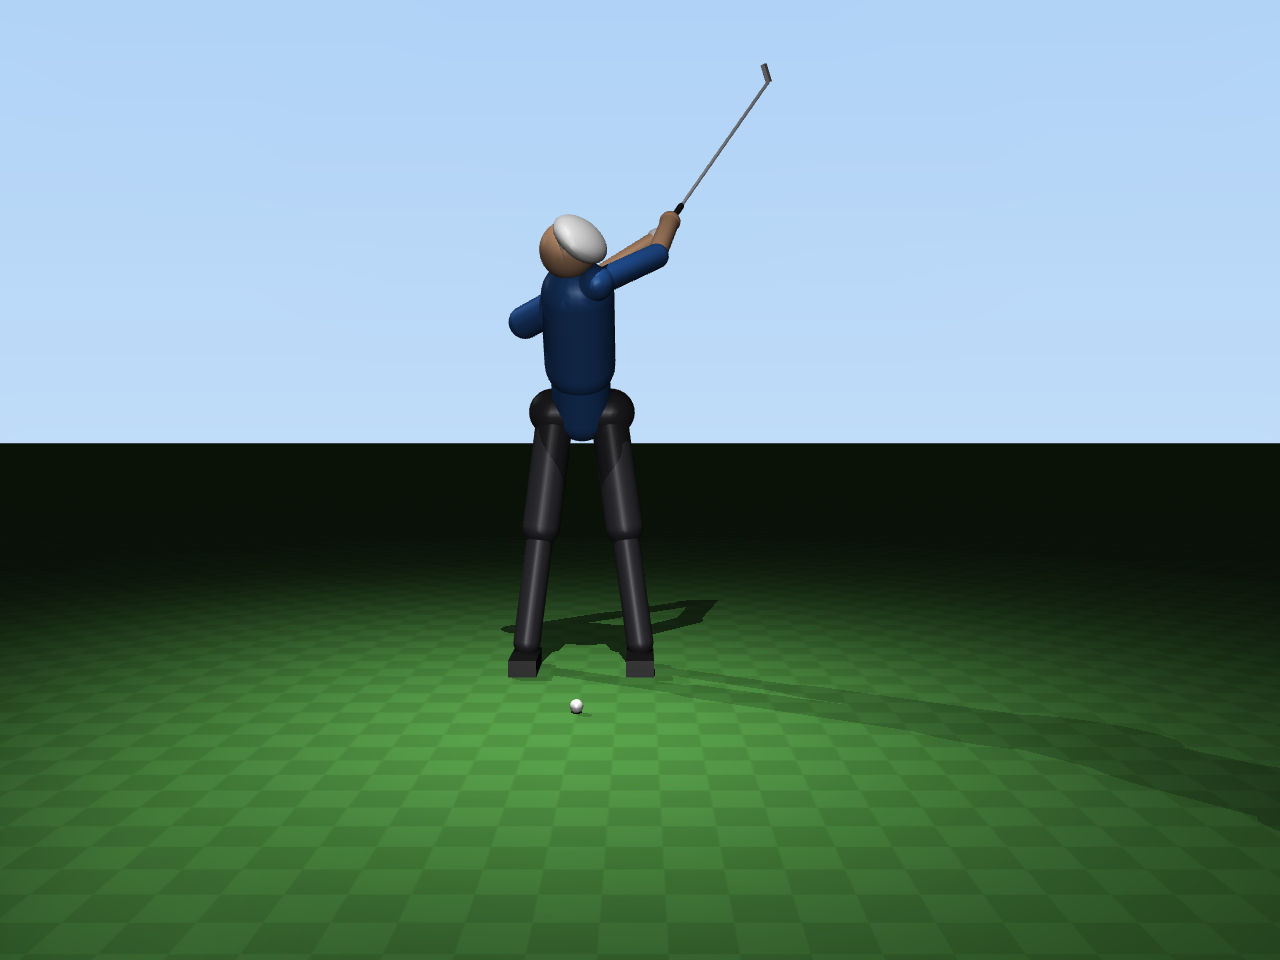
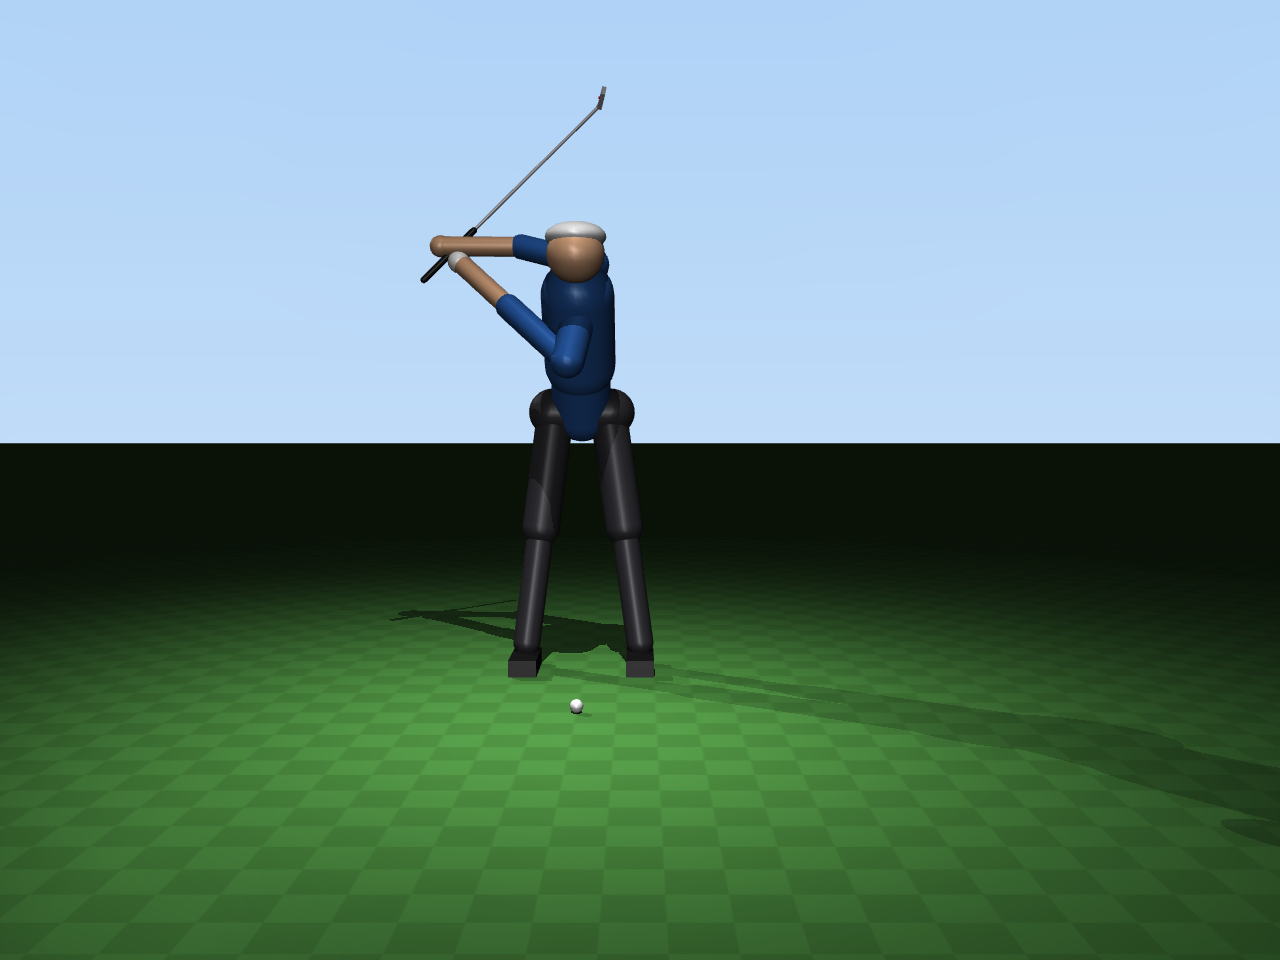
Lab1: passa a pendulo duplo (braco + pulso), o modelo canonico do swing
Os 2 dof anteriores (tronco + bracos) tinham correlacao 0.905 na matriz de massa
-- eixos a 34.7 graus um do outro, ambos a rodar o taco sempre esticado. Eram
quase o mesmo movimento, e nenhum fazia a coisa que gera velocidade: mudar o
raio. Dai o tecto de 25.7 m/s.

Passa ao modelo de Cochran & Stobbs: tronco RIGIDO, e os 2 dof sao o braco (no
centro do peito) e o PULSO. O taco sai do corpo dos bracos e passa a corpo
proprio com junta no punho. A pose de enderecio fica identica.
  correlacao dos dof  0.905 -> 0.566
  v cabeca            25.7  -> 29.4 m/s
  smash               1.29  -> 1.25 (real 1.25-1.33)
  carry               102   -> 156 m
  downswing           0.38  -> 0.30 s (duracao real de um swing)

O pulso tem libertacao tardia (lag): fica armado ate 30 % do downswing e so
depois solta. Com o taco dobrado a inercia e baixa e o braco acelera barato; a
energia vai para a cabeca no fim, com a alavanca ja longa.

Binarios: braco +-150 N.m (representa toda a cadeia, nao so o deltoide), pulso
+-40 N.m (a libertacao real e em boa parte passiva, por forca centrifuga).

Corrige tambem a deteccao de impacto: so conta contacto a menos de 0.2 s do
instante previsto. Um swing que falhava a bola acabava por encostar-lhe no
follow-through e era contado como acerto a ~0 m/s.

diff --git a/Lab1/src/swing.py b/Lab1/src/swing.py
@@ -55,19 +55,19 @@ MODEL = "models/golfer_v13.xml"
 # saíram do varrimento de viabilidade — ver report/simplificacoes.md.
 # ----------------------------------------------------------------------------
 DEFAULTS = dict(
-    q_top_torso=-97.0,      # rotação de ombros no topo do backswing [deg]
-    q_top_shoulder=-125.0,  # ângulo braços+taco no topo [deg]
+    q_top_shoulder=-125.0,  # ângulo dos braços no topo do backswing [deg]
+    q_top_wrist=-95.0,      # armação do pulso no topo [deg] (real: ~90)
+    f_release=0.30,         # fração do downswing em que o pulso começa a soltar
     t_back=0.75,            # duração do backswing [s]
     t_pause=0.05,           # pausa no topo [s]
-    t_down=0.38,            # topo -> impacto [s]
+    t_down=0.30,            # topo -> impacto [s]  (real: 0.25-0.30 s)
     t_sim=6.0,              # duração total simulada [s] (até a bola parar)
     kp=900.0,               # ganhos do PD (rad/s^2 por rad, e por rad/s)
     kd=60.0,
 )
-# Nota: t_down = 0.38 s é mais lento que o downswing real (0.25-0.30 s). Não é
-# escolha estética: com os binários declarados no XML (±150/±100 N·m) um
-# downswing mais rápido satura o motor do ombro, a trajetória deixa de ser
-# seguida e o taco passa ao lado da bola. Ver report/simplificacoes.md.
+# Com o modelo de pêndulo duplo (braço + pulso) o downswing já cabe nos 0.30 s
+# de um swing real sem saturar os motores. No modelo anterior (tronco + braços,
+# dof 90 % redundantes) era preciso 0.38-0.46 s. Ver report/simplificacoes.md.
 
 
 # ----------------------------------------------------------------------------
@@ -95,7 +95,7 @@ def reference(t, p):
 
     Devolve (q_ref, v_ref, a_ref), cada um com 2 elementos [torso, shoulder].
     """
-    q_top = np.radians([p["q_top_torso"], p["q_top_shoulder"]])
+    q_top = np.radians([p["q_top_shoulder"], p["q_top_wrist"]])
     t_back, t_pause, t_down = p["t_back"], p["t_pause"], p["t_down"]
     t_start_down = t_back + t_pause
 
@@ -122,10 +122,29 @@ def reference(t, p):
     # ao peito. Com 1.35 a pose final fica ~0.82*|q_topo| depois do impacto, que
     # é a ordem de grandeza de um "finish" real.
     u = t - t_start_down
+
+    # --- braço (dof 1): parábola desde o topo, cruza zero em u = t_down
     tau = min(u / t_down, 1.35)                      # 1.35 = fim do follow-through
     q = q_top * (1.0 - tau**2)
     v = -q_top * 2.0 * tau / t_down
     a = -q_top * 2.0 * np.ones(2) / t_down**2
+
+    # --- pulso (dof 2): LIBERTAÇÃO TARDIA ("lag").
+    # O pulso fica armado durante a primeira parte do downswing e só começa a
+    # soltar em f_release*t_down; depois solta com aceleração constante e chega
+    # também a zero em u = t_down. Isto é o "lag" de que falam os treinadores, e
+    # é o que distingue um swing eficiente de um "casting" (soltar cedo): com o
+    # taco dobrado a inércia é baixa, logo o braço acelera barato, e a energia
+    # é entregue à cabeça do taco no fim, quando o braço de alavanca é longo.
+    t_rel = p.get("f_release", 0.55) * t_down
+    if u < t_rel:
+        q[1], v[1], a[1] = q_top[1], 0.0, 0.0
+    else:
+        Tw = t_down - t_rel
+        tw = min((u - t_rel) / Tw, 1.35)
+        q[1] = q_top[1] * (1.0 - tw**2)
+        v[1] = -q_top[1] * 2.0 * tw / Tw
+        a[1] = -q_top[1] * 2.0 / Tw**2
     if u / t_down >= 1.35:                           # pose final estática
         v[:] = 0.0
         a[:] = 0.0
@@ -153,10 +172,10 @@ def load(path=MODEL):
 
 def _indices(m):
     """Índices das 2 juntas atuadas em qpos, qvel e ctrl."""
-    jt, js = m.joint("torso"), m.joint("shoulder")
+    jt, js = m.joint("shoulder"), m.joint("wrist")
     qadr = np.array([jt.qposadr[0], js.qposadr[0]])
     vadr = np.array([jt.dofadr[0], js.dofadr[0]])
-    uadr = np.array([m.actuator("torso_motor").id, m.actuator("shoulder_motor").id])
+    uadr = np.array([m.actuator("shoulder_motor").id, m.actuator("wrist_motor").id])
     return qadr, vadr, uadr
 
 
@@ -166,10 +185,10 @@ def run_swing(model, data, params=None, noise=None, seed=None):
 
     params : dict  — sobrepõe DEFAULTS (ver acima).
     noise  : dict  — perturbações, todas opcionais:
-                     {"shoulder_torque_std": X}  ruído gaussiano [N·m] somado
+                     {"wrist_torque_std": X}  ruído gaussiano [N·m] somado
                                                  ao binário do ombro
                                                  ("pulso trémulo" do enunciado)
-                     {"torso_torque_std": X}     idem para o tronco
+                     {"shoulder_torque_std": X}     idem para o tronco
                      {"freq": f}                 largura de banda do ruído [Hz],
                                                  por omissão 10 Hz (tremor
                                                  fisiológico humano: 8-12 Hz)
@@ -208,7 +227,7 @@ def run_swing(model, data, params=None, noise=None, seed=None):
     m, d = model, data
     mujoco.mj_resetData(m, d)
     qadr, vadr, uadr = _indices(m)
-    p["q_range"] = m.jnt_range[[m.joint("torso").id, m.joint("shoulder").id]]
+    p["q_range"] = m.jnt_range[[m.joint("shoulder").id, m.joint("wrist").id]]
     n = m.nv
 
     g_clubhead = m.geom("clubhead").id
@@ -255,8 +274,8 @@ def run_swing(model, data, params=None, noise=None, seed=None):
         if noise:
             if t >= t_next_noise:
                 t_next_noise += 1.0 / noise.get("freq", 10.0)
-                tau_noise[0] = rng.normal(0.0, noise.get("torso_torque_std", 0.0))
-                tau_noise[1] = rng.normal(0.0, noise.get("shoulder_torque_std", 0.0))
+                tau_noise[0] = rng.normal(0.0, noise.get("shoulder_torque_std", 0.0))
+                tau_noise[1] = rng.normal(0.0, noise.get("wrist_torque_std", 0.0))
             tau = tau + tau_noise
 
         # --- saturação: nunca sair do ctrlrange declarado no XML
@@ -277,8 +296,12 @@ def run_swing(model, data, params=None, noise=None, seed=None):
                 touching = True
                 break
 
-        if touching and not hit:
-            # primeiro instante de contacto: mede a cabeça do taco e as juntas
+        if touching and not hit and abs(t - t_impact_ref) < 0.20:
+            # Primeiro contacto, mas só conta se ocorrer perto do instante de
+            # impacto previsto. Sem esta janela, um swing que FALHA a bola
+            # acabava por ser contado como acerto: no follow-through (ou já
+            # parado) o taco encosta na bola em repouso e isso era registado
+            # como impacto a ~0 m/s, poluindo as estatísticas.
             mujoco.mj_jacGeom(m, d, J, None, g_clubhead)
             v_head = float(np.linalg.norm(J @ d.qvel))
             q_impact = np.degrees(d.qpos[qadr].copy())
@@ -343,7 +366,7 @@ def view(params=None):
         p.update(params)
     m, d = load()
     qadr, vadr, uadr = _indices(m)
-    p["q_range"] = m.jnt_range[[m.joint("torso").id, m.joint("shoulder").id]]
+    p["q_range"] = m.jnt_range[[m.joint("shoulder").id, m.joint("wrist").id]]
     M_full = np.zeros((m.nv, m.nv))
     ctrl_lo = m.actuator_ctrlrange[uadr, 0]
     ctrl_hi = m.actuator_ctrlrange[uadr, 1]
@@ -370,17 +393,18 @@ def main():
     ap = argparse.ArgumentParser(description="Swing do golfista V13 (2 dof)")
     ap.add_argument("--view", action="store_true", help="abre o viewer")
     ap.add_argument("--t-down", type=float, help="duração do downswing [s]")
-    ap.add_argument("--q-top-torso", type=float, help="topo do tronco [deg]")
     ap.add_argument("--q-top-shoulder", type=float, help="topo dos braços [deg]")
+    ap.add_argument("--q-top-wrist", type=float, help="armação do pulso [deg]")
+    ap.add_argument("--f-release", type=float, help="fração do downswing p/ soltar o pulso")
     args = ap.parse_args()
 
     params = {}
     if args.t_down is not None:
         params["t_down"] = args.t_down
-    if args.q_top_torso is not None:
-        params["q_top_torso"] = args.q_top_torso
     if args.q_top_shoulder is not None:
         params["q_top_shoulder"] = args.q_top_shoulder
+    if args.q_top_wrist is not None:
+        params["q_top_wrist"] = args.q_top_wrist
 
     if args.view:
         view(params)
@@ -396,14 +420,14 @@ def main():
           f"(smash {r['v_ball']/r['v_head']:.2f})")
     print(f"  lançamento                : {r['launch']:6.1f} deg   "
           f"desvio lateral {r['side']:+.1f} deg")
-    print(f"  juntas no impacto         : torso {r['q_impact'][0]:+.1f} deg, "
-          f"shoulder {r['q_impact'][1]:+.1f} deg   (alvo: 0, 0)")
+    print(f"  juntas no impacto         : braço {r['q_impact'][0]:+.1f} deg, "
+          f"pulso {r['q_impact'][1]:+.1f} deg   (alvo: 0, 0)")
     print(f"  carry (até aterrar)       : {r['carry']:6.1f} m   "
           f"(desvio lateral {r['land_y']:+.2f} m)")
-    print(f"  binário máx usado         : torso {r['tau_max'][0]:.0f} N.m, "
-          f"shoulder {r['tau_max'][1]:.0f} N.m")
-    print(f"  saturação no downswing    : torso {r['sat'][0]*100:.0f} %, "
-          f"shoulder {r['sat'][1]*100:.0f} %")
+    print(f"  binário máx usado         : braço {r['tau_max'][0]:.0f} N.m, "
+          f"pulso {r['tau_max'][1]:.0f} N.m")
+    print(f"  saturação no downswing    : braço {r['sat'][0]*100:.0f} %, "
+          f"pulso {r['sat'][1]*100:.0f} %")
 
 
 if __name__ == "__main__":

diff --git a/Lab1/src/perturbacoes.py b/Lab1/src/perturbacoes.py
@@ -2,15 +2,15 @@
 Teste de perturbações — Tarefa 2 do enunciado.
 
 O enunciado pede que se considere a existência de perturbações em cada grau de
-liberdade, dando como exemplo "o pulso do jogador a tremer". Neste modelo V13 o
-pulso é rígido, por isso a perturbação equivalente é ruído no binário das juntas
-que existem: aplica-se um ruído gaussiano branco ao binário comandado, em cada
-passo de integração, e compara-se com o swing nominal (sem ruído).
+liberdade, dando como exemplo "o pulso do jogador a tremer". O modelo tem
+exatamente esse dof, por isso o exemplo do enunciado traduz-se diretamente:
+soma-se um ruído gaussiano ao binário comandado da junta escolhida e compara-se
+com o swing nominal (sem ruído).
 
 Uso (a partir de Lab1/):
-    python src/perturbacoes.py              # N=20 swings com ruído no ombro
+    python src/perturbacoes.py              # N=20 swings com ruído no PULSO
     python src/perturbacoes.py --n 50       # mais repetições
-    python src/perturbacoes.py --junta torso
+    python src/perturbacoes.py --junta shoulder   # ruído no braço
     python src/perturbacoes.py --std 8      # desvio padrão do ruído [N·m]
 
 Produz report/dispersao_perturbacao.png e imprime a estatística.
@@ -58,7 +58,7 @@ def estatistica(nome, valores):
 def main():
     ap = argparse.ArgumentParser(description="Perturbações no binário das juntas")
     ap.add_argument("--n", type=int, default=20, help="número de swings")
-    ap.add_argument("--junta", default="shoulder", choices=["shoulder", "torso"])
+    ap.add_argument("--junta", default="wrist", choices=["wrist", "shoulder"])
     ap.add_argument("--std", type=float, default=5.0,
                     help="desvio padrão do ruído no binário [N.m]")
     args = ap.parse_args()

diff --git a/Lab1/src/renders.py b/Lab1/src/renders.py
@@ -52,7 +52,7 @@ def main():
     p = dict(DEFAULTS)
     m, d = load()
     qadr, vadr, uadr = _indices(m)
-    p["q_range"] = m.jnt_range[[m.joint("torso").id, m.joint("shoulder").id]]
+    p["q_range"] = m.jnt_range[[m.joint("shoulder").id, m.joint("wrist").id]]
     lo, hi = m.actuator_ctrlrange[uadr, 0], m.actuator_ctrlrange[uadr, 1]
     M_full = np.zeros((m.nv, m.nv))
 
